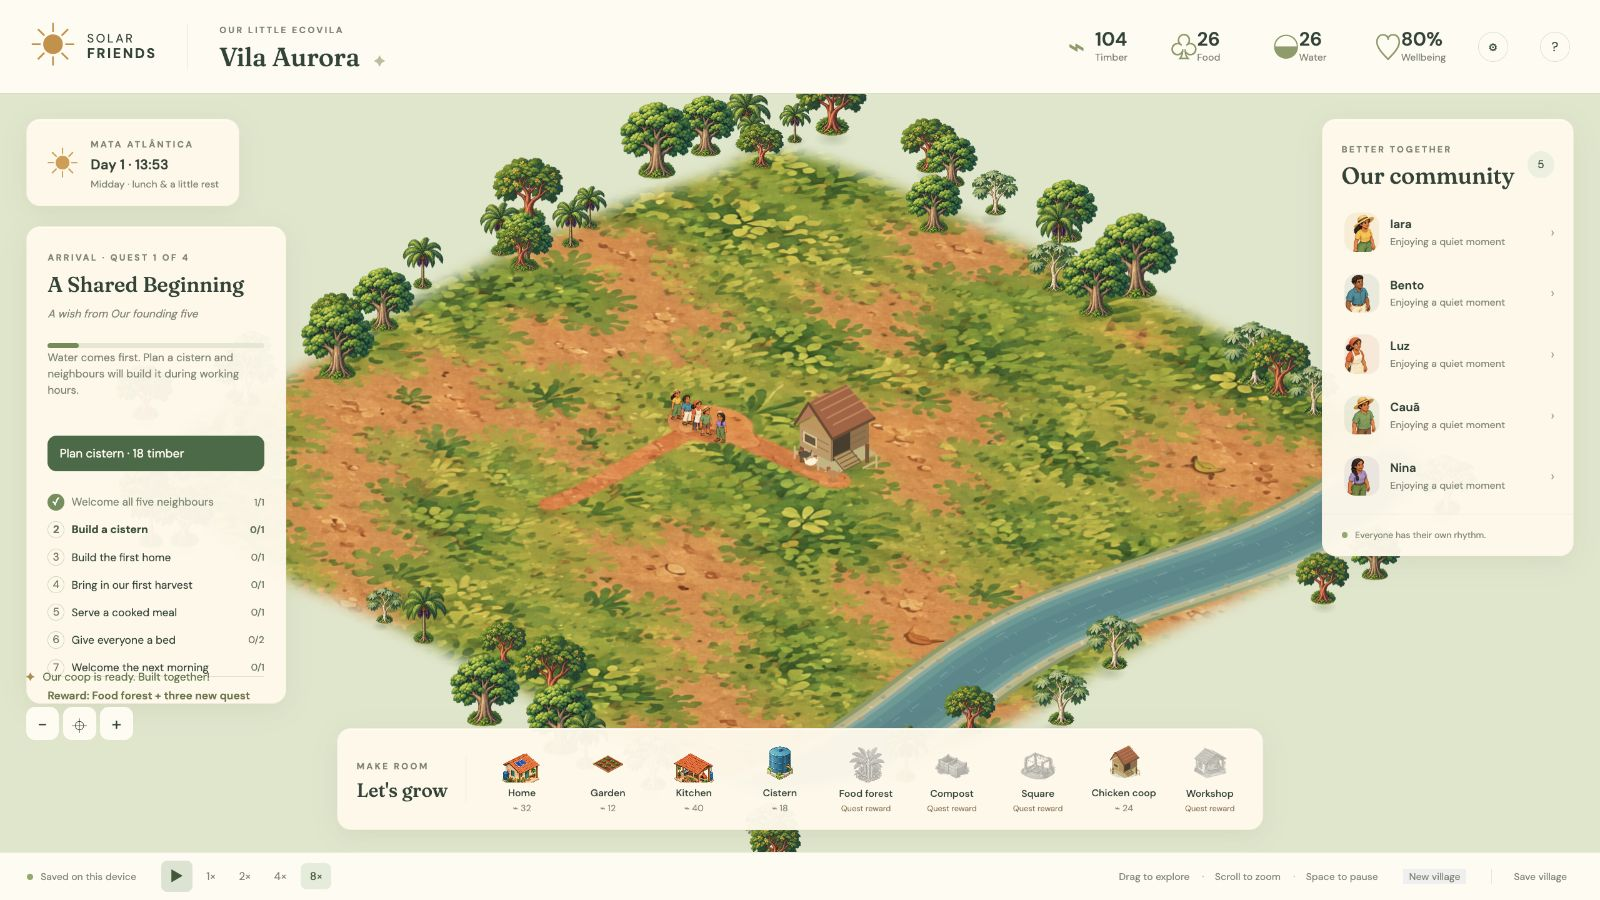
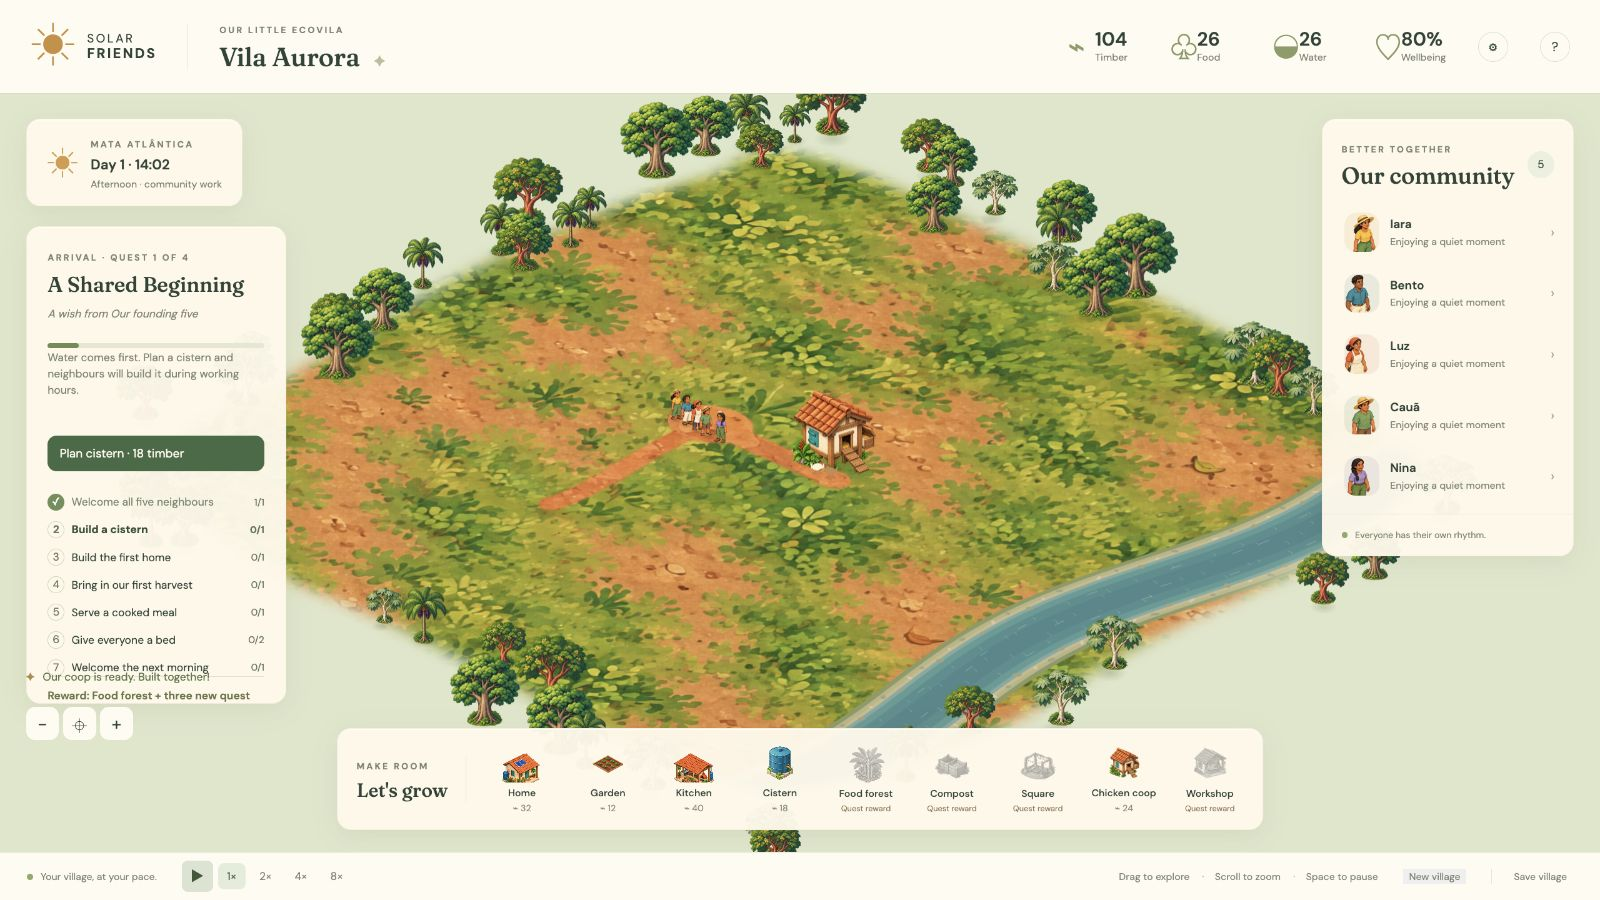
Match chicken coop art to the painted village buildings

diff --git a/web/index.html b/web/index.html
@@ -5,7 +5,7 @@
     <meta name="viewport" content="width=device-width,initial-scale=1" />
     <meta name="theme-color" content="#263e30" />
     <title>Solar Friends · Vila Aurora</title>
-    <link rel="stylesheet" href="style.css?v=coop-1" />
+    <link rel="stylesheet" href="style.css?v=coop-art-2" />
   </head>
   <body>
     <div id="loading">
@@ -228,6 +228,6 @@
       <button id="cancel-restart">Keep this village</button>
       <button id="confirm-restart" class="primary">Start new village</button>
     </dialog>
-    <script type="module" src="main.js?v=coop-1"></script>
+    <script type="module" src="main.js?v=coop-art-2"></script>
   </body>
 </html>

diff --git a/web/main.js b/web/main.js
@@ -55,7 +55,7 @@ gardenArt.src = "art/garden-simple-isometric.png";
 const questArt = Object.fromEntries(
   ["compost", "square", "workshop", "coop"].map((kind) => {
     const image = new Image();
-    image.src = `art/${kind}-isometric.${kind === "coop" ? "svg" : "png"}`;
+    image.src = `art/${kind}-isometric.png`;
     return [kind, image];
   }),
 );

diff --git a/web/style.css b/web/style.css
@@ -1337,5 +1337,5 @@ button:focus-visible {
 }
 
 .build-tool[data-kind="coop"] .tool-art {
-  background: url("art/coop-isometric.svg") center / contain no-repeat;
+  background: url("art/coop-isometric.png") center / contain no-repeat;
 }

diff --git a/assets/art-direction/chicken-coop-prompt.md b/assets/art-direction/chicken-coop-prompt.md
@@ -1,0 +1,7 @@
+# Chicken coop artwork
+
+Generated with the built-in image generation tool using `web/art/workshop-isometric.png` and `web/art/village-atlas-isometric.png` as references. Saved as `web/art/coop-isometric.png` and reused for the map, construction preview, and toolbar.
+
+## Prompt
+
+Transform the workshop in reference 1 into a small chicken coop production sprite for the SAME Solar Friends game. Reference 2 is the existing village sprite atlas: match its warm painted materials, terracotta tile roof, cream plaster, turquoise accents, soft modeled shading, organic texture and elevated orthographic camera exactly. Output ONE isolated compact chicken coop on a square genuinely transparent canvas, NOT an atlas. Small raised wooden henhouse with cream limewashed panels, warm timber framing, orange curved terracotta roof tiles, a small turquoise shutter, dark hen doorway and short timber ramp pointing toward lower right; a modest side nesting box with a little straw, sparse tropical plants at base. Whole silhouette visible with generous transparent margins. Ground axes 2:1, vertical uprights, no perspective convergence. Footprint center horizontally at 76 percent canvas height, structure occupying roughly 80 percent canvas width. Upper-left warm light. Match reference detail density and hand-painted game sprite appearance, NOT flat vector, NOT line art, NOT low-poly. No chickens baked into sprite (animated separately), no people, no labels or text, no large ground tile, no background scenery, no external cast shadow. Preserve true transparency.

diff --git a/web/art/README.md b/web/art/README.md
@@ -59,4 +59,4 @@ Prompt: create only a simple square vegetable bed on transparency, warm painted 
 
 `compost-isometric.png`, `square-isometric.png`, and `workshop-isometric.png` are transparent sprites generated with the built-in image tool. The map, placement previews, toolbar, and journal reuse the same files. They follow the approved Brazilian palette and elevated orthographic camera. The [complete prompt set](../../assets/art-direction/quest-building-prompts.md) records each asset's subject and constraints. Starter buildings and the food forest reuse the existing artwork.
 
-The chicken coop (`coop-isometric.svg`) is a hand-authored vector illustration. Its three hens are drawn with Canvas 2D in `web/chickens.js`.
+The chicken coop (`coop-isometric.png`) is generated with the built-in image tool, using the workshop and village atlas as direct style references for painted materials, terracotta tiles, warm lighting, and isometric perspective. The generation prompt is recorded in `assets/art-direction/chicken-coop-prompt.md`. Its three hens are drawn with Canvas 2D in `web/chickens.js`.
